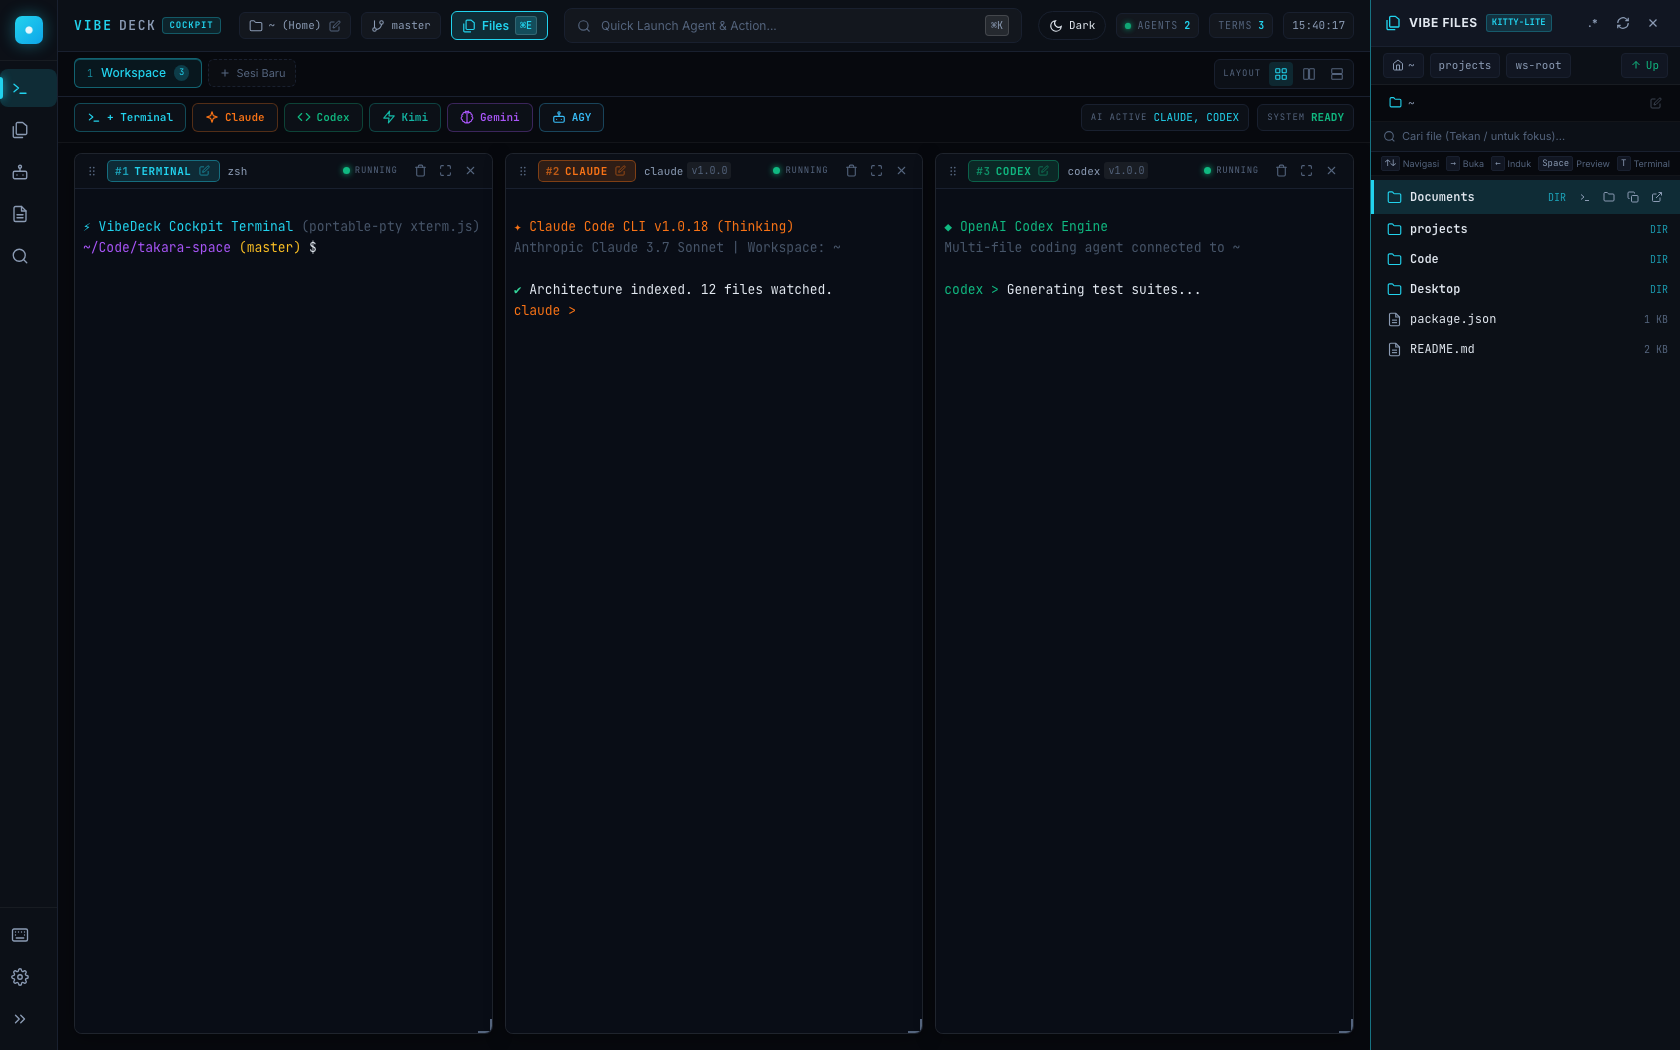
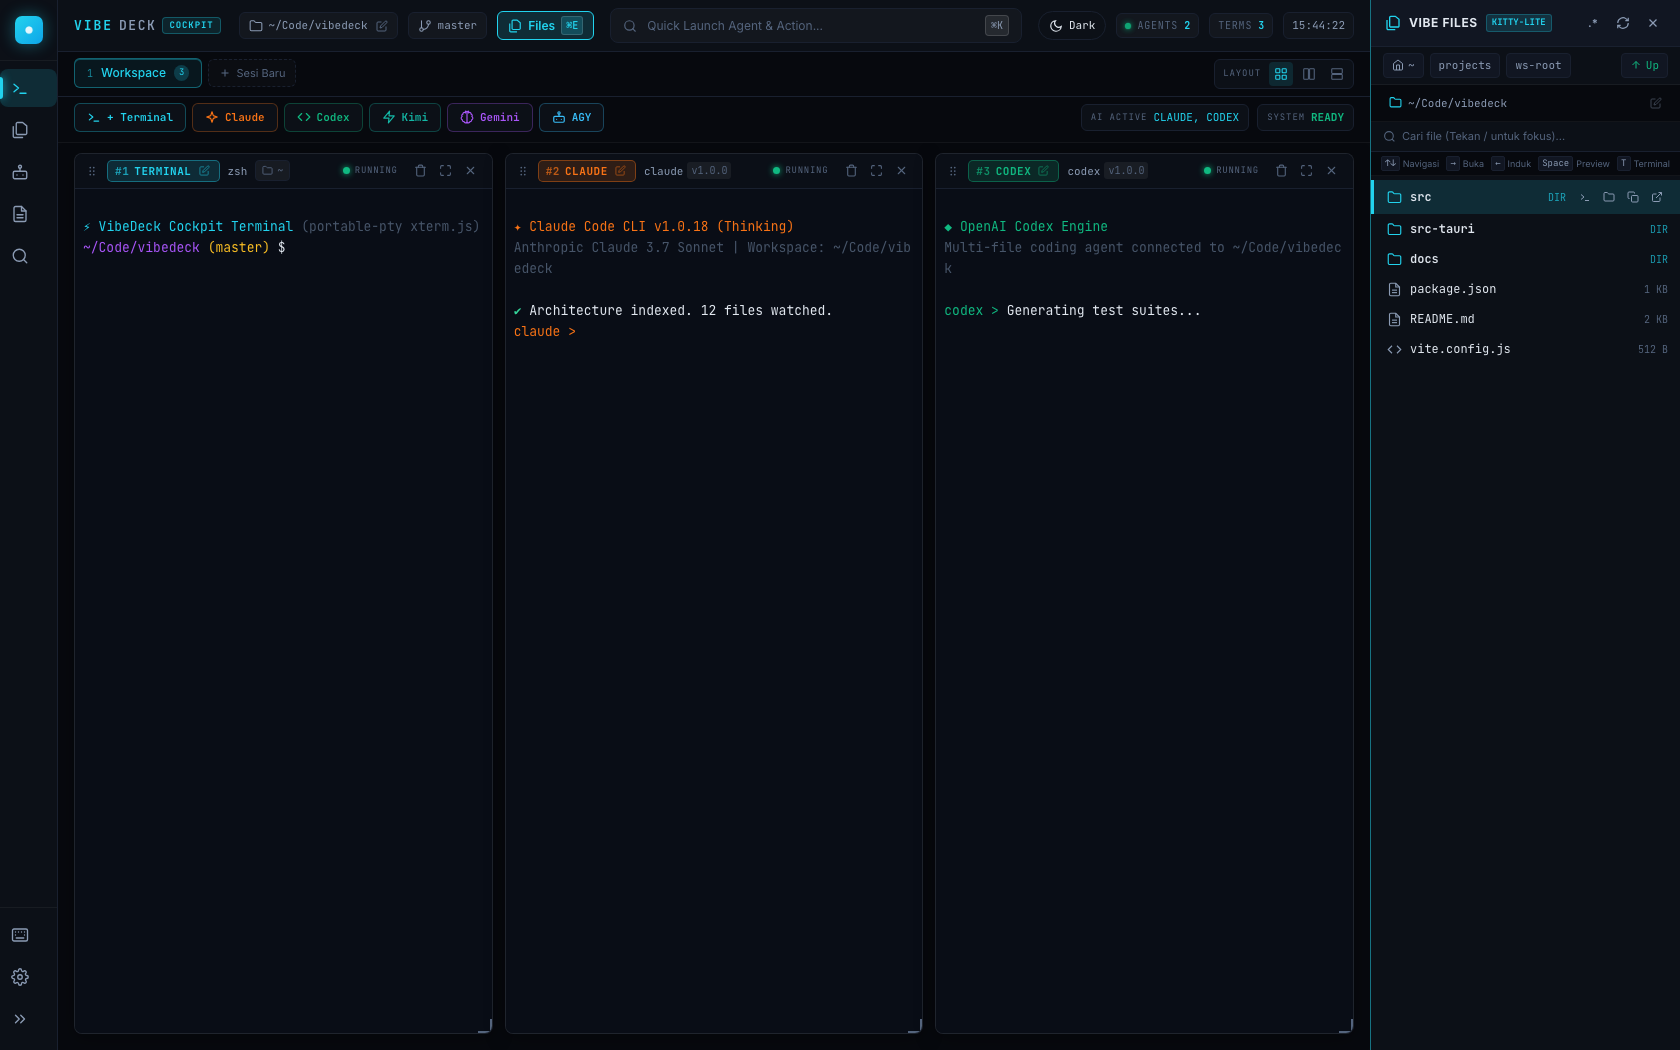
docs: replace takara references with vibedeck across UI and refresh preview screenshot

diff --git a/src/bridge.js b/src/bridge.js
@@ -7,20 +7,20 @@ const demoDataListeners = new Set()
 const demoExitListeners = new Set()
 
 const bridge = !isTauri ? {
-  workspace: async () => '~',
+  workspace: async () => '~/Code/vibedeck',
   gitBranch: async () => 'master',
   version: async () => '1.0.0',
   verifyPath: async () => true,
   readDir: async (path) => ({
-    current_path: path || '~',
-    parent_path: '~',
+    current_path: path || '~/Code/vibedeck',
+    parent_path: '~/Code',
     entries: [
-      { name: 'Documents', path: '~/Documents', is_dir: true, is_symlink: false, size: 0, modified: Date.now() / 1000, ext: '' },
-      { name: 'projects', path: '~/Documents/projects', is_dir: true, is_symlink: false, size: 0, modified: Date.now() / 1000, ext: '' },
-      { name: 'Code', path: '~/Code', is_dir: true, is_symlink: false, size: 0, modified: Date.now() / 1000, ext: '' },
-      { name: 'Desktop', path: '~/Desktop', is_dir: true, is_symlink: false, size: 0, modified: Date.now() / 1000, ext: '' },
-      { name: 'package.json', path: '~/package.json', is_dir: false, is_symlink: false, size: 1024, modified: Date.now() / 1000, ext: 'json' },
-      { name: 'README.md', path: '~/README.md', is_dir: false, is_symlink: false, size: 2048, modified: Date.now() / 1000, ext: 'md' },
+      { name: 'src', path: '~/Code/vibedeck/src', is_dir: true, is_symlink: false, size: 0, modified: Date.now() / 1000, ext: '' },
+      { name: 'src-tauri', path: '~/Code/vibedeck/src-tauri', is_dir: true, is_symlink: false, size: 0, modified: Date.now() / 1000, ext: '' },
+      { name: 'docs', path: '~/Code/vibedeck/docs', is_dir: true, is_symlink: false, size: 0, modified: Date.now() / 1000, ext: '' },
+      { name: 'package.json', path: '~/Code/vibedeck/package.json', is_dir: false, is_symlink: false, size: 1024, modified: Date.now() / 1000, ext: 'json' },
+      { name: 'README.md', path: '~/Code/vibedeck/README.md', is_dir: false, is_symlink: false, size: 2048, modified: Date.now() / 1000, ext: 'md' },
+      { name: 'vite.config.js', path: '~/Code/vibedeck/vite.config.js', is_dir: false, is_symlink: false, size: 512, modified: Date.now() / 1000, ext: 'js' },
     ],
   }),
   readFilePreview: async () => 'Mock preview content for web demo',
@@ -29,13 +29,13 @@ const bridge = !isTauri ? {
     setTimeout(() => {
       let banner = ''
       if (cmd === 'claude') {
-        banner = `\r\n\x1b[38;2;249;115;22m✦ Claude Code CLI v1.0.18 (Thinking)\x1b[0m\r\n\x1b[90mAnthropic Claude 3.7 Sonnet | Workspace: ${cwd || '~/Code/takara-space'}\x1b[0m\r\n\r\n\x1b[32m✔\x1b[0m Architecture indexed. 12 files watched.\r\n\x1b[38;2;249;115;22mclaude >\x1b[0m `
+        banner = `\r\n\x1b[38;2;249;115;22m✦ Claude Code CLI v1.0.18 (Thinking)\x1b[0m\r\n\x1b[90mAnthropic Claude 3.7 Sonnet | Workspace: ${cwd || '~/Code/vibedeck'}\x1b[0m\r\n\r\n\x1b[32m✔\x1b[0m Architecture indexed. 12 files watched.\r\n\x1b[38;2;249;115;22mclaude >\x1b[0m `
       } else if (cmd === 'codex') {
-        banner = `\r\n\x1b[38;2;16;185;129m◆ OpenAI Codex Engine\x1b[0m\r\n\x1b[90mMulti-file coding agent connected to ${cwd || '~/Code/takara-space'}\x1b[0m\r\n\r\n\x1b[38;2;16;185;129mcodex >\x1b[0m Generating test suites...\r\n`
+        banner = `\r\n\x1b[38;2;16;185;129m◆ OpenAI Codex Engine\x1b[0m\r\n\x1b[90mMulti-file coding agent connected to ${cwd || '~/Code/vibedeck'}\x1b[0m\r\n\r\n\x1b[38;2;16;185;129mcodex >\x1b[0m Generating test suites...\r\n`
       } else if (cmd === 'kimi') {
         banner = `\r\n\x1b[38;2;20;184;166m⚡ Kimi Code Agent CLI\x1b[0m\r\n\x1b[90mContext window: 200k tokens | Mode: Deep Research\x1b[0m\r\n\r\n\x1b[38;2;20;184;166mkimi >\x1b[0m `
       } else {
-        banner = `\r\n\x1b[38;2;34;211;238m⚡ VibeDeck Cockpit Terminal\x1b[0m \x1b[90m(portable-pty xterm.js)\x1b[0m\r\n\x1b[38;2;168;85;247m~/Code/takara-space\x1b[0m \x1b[33m(master)\x1b[0m $ `
+        banner = `\r\n\x1b[38;2;34;211;238m⚡ VibeDeck Cockpit Terminal\x1b[0m \x1b[90m(portable-pty xterm.js)\x1b[0m\r\n\x1b[38;2;168;85;247m~/Code/vibedeck\x1b[0m \x1b[33m(master)\x1b[0m $ `
       }
       for (const cb of demoDataListeners) cb(id, banner)
     }, 80)

diff --git a/src/components/TerminalPanel.vue b/src/components/TerminalPanel.vue
@@ -245,8 +245,9 @@ function restart() {
     tags.value = []
     buf = ''
     props.panel.alive = true
-    window.takara.kill(props.panel.id)
-    window.takara.spawn({
+    const bridge = window.vibedeck || window.takara
+    bridge.kill(props.panel.id)
+    bridge.spawn({
       id: props.panel.id,
       cmd: agent.cmd,
       cols: term.cols,
@@ -274,12 +275,13 @@ onMounted(async () => {
   term.open(el.value)
   fit.fit()
 
-  term.onData((d) => window.takara.write(props.panel.id, d))
+  const bridge = window.vibedeck || window.takara
+  term.onData((d) => bridge.write(props.panel.id, d))
   if (agent.cmd) {
-    window.takara.version(agent.cmd).then((v) => (version.value = v ? `v${v}` : ''))
+    bridge.version(agent.cmd).then((v) => (version.value = v ? `v${v}` : ''))
   }
 
-  window.takara.spawn({
+  bridge.spawn({
     id: props.panel.id,
     cmd: agent.cmd,
     cols: term.cols,
@@ -287,7 +289,7 @@ onMounted(async () => {
     cwd: props.panel.cwd || props.cwd || '~',
   })
 
-  term.onResize(({ cols, rows }) => window.takara.resize(props.panel.id, cols, rows))
+  term.onResize(({ cols, rows }) => bridge.resize(props.panel.id, cols, rows))
 
   ro = new ResizeObserver(() => {
     if (el.value && el.value.offsetWidth > 0 && el.value.offsetHeight > 0) {
@@ -298,14 +300,14 @@ onMounted(async () => {
   })
   ro.observe(el.value)
 
-  unData = await window.takara.onData((id, d) => {
+  unData = await bridge.onData((id, d) => {
     if (id === props.panel.id) {
       term?.write(d)
       scan(d)
     }
   })
 
-  unExit = await window.takara.onExit((id, code) => {
+  unExit = await bridge.onExit((id, code) => {
     if (id !== props.panel.id) return
     props.panel.alive = false
     emit('exit', props.panel, code)
@@ -332,7 +334,8 @@ onBeforeUnmount(() => {
   ro?.disconnect()
   unData?.()
   unExit?.()
-  window.takara.kill(props.panel.id)
+  const bridge = window.vibedeck || window.takara
+  bridge.kill(props.panel.id)
   term?.dispose()
 })
 </script>

diff --git a/src/App.vue b/src/App.vue
@@ -17,11 +17,11 @@ const THEMES = [
   { id: 'matrix', label: 'Matrix', icon: 'terminal', desc: 'Hacker Phosphor Green' },
   { id: 'nord', label: 'Nord', icon: 'cloud', desc: 'Arctic Frost Blue' },
 ]
-const currentTheme = ref(localStorage.getItem('takara-theme') || 'dark')
+const currentTheme = ref(localStorage.getItem('vibedeck-theme') || localStorage.getItem('takara-theme') || 'dark')
 
 function setTheme(t) {
   currentTheme.value = t
-  localStorage.setItem('takara-theme', t)
+  localStorage.setItem('vibedeck-theme', t)
   document.documentElement.setAttribute('data-theme', t)
   logActivity(`Theme changed to ${t.toUpperCase()}`, 'info')
 }
@@ -101,7 +101,8 @@ function openPathEditor() {
 
 async function saveWorkspacePath() {
   const target = customPathInput.value.trim() || '~'
-  const exists = await window.takara.verifyPath(target)
+  const bridge = window.vibedeck || window.takara
+  const exists = await bridge.verifyPath(target)
   if (!exists && target !== '~' && target !== '/') {
     pathError.value = 'Direktori tidak ditemukan di sistem'
     return
@@ -270,10 +271,11 @@ function onExit(panel, code) {
 }
 
 async function refreshGit() {
+  const bridge = window.vibedeck || window.takara
   if (active.value?.cwd) {
-    branch.value = await window.takara.gitBranch(active.value.cwd)
+    branch.value = await bridge.gitBranch(active.value.cwd)
   } else {
-    branch.value = await window.takara.gitBranch()
+    branch.value = await bridge.gitBranch()
   }
 }
 
@@ -398,6 +400,7 @@ onMounted(async () => {
   setTheme(currentTheme.value)
   add('terminal')
   if (typeof window !== 'undefined' && window.location.search.includes('preview')) {
+    if (active.value) active.value.cwd = '~/Code/vibedeck'
     add('claude')
     add('codex')
     showFileManager.value = true

diff --git a/README.md b/README.md
@@ -1,4 +1,4 @@
-# ⚡ VibeDeck (Takara Space)
+# ⚡ VibeDeck
 
 > **Next-Gen Multi-Terminal AI Agent Cockpit & IDE Workspace for Vibe Coders.**  
 > Orchestrate multiple AI agents (Claude Code, OpenAI Codex, Kimi, Google Gemini, Antigravity) side-by-side with low-latency terminal grids, file management, and instant git context.
@@ -40,7 +40,7 @@ Run **Claude Code**, **OpenAI Codex**, **Kimi CLI**, and **Google Gemini** simul
 |   Cargo.toml| $ cargo check --release           | > Reviewing security policy |
 |   main.rs   | [OK] Build successful (1.2s)      |                             |
 +-------------+-----------------------------------+-----------------------------+
-| [Status] 4 Active Agents | Memory: 42MB (Rust Engine) | Workspace: ~/Code/takara |
+| [Status] 4 Active Agents | Memory: 42MB (Rust Engine) | Workspace: ~/Code/vibedeck |
 +-------------------------------------------------------------------------------+
 ```
 
